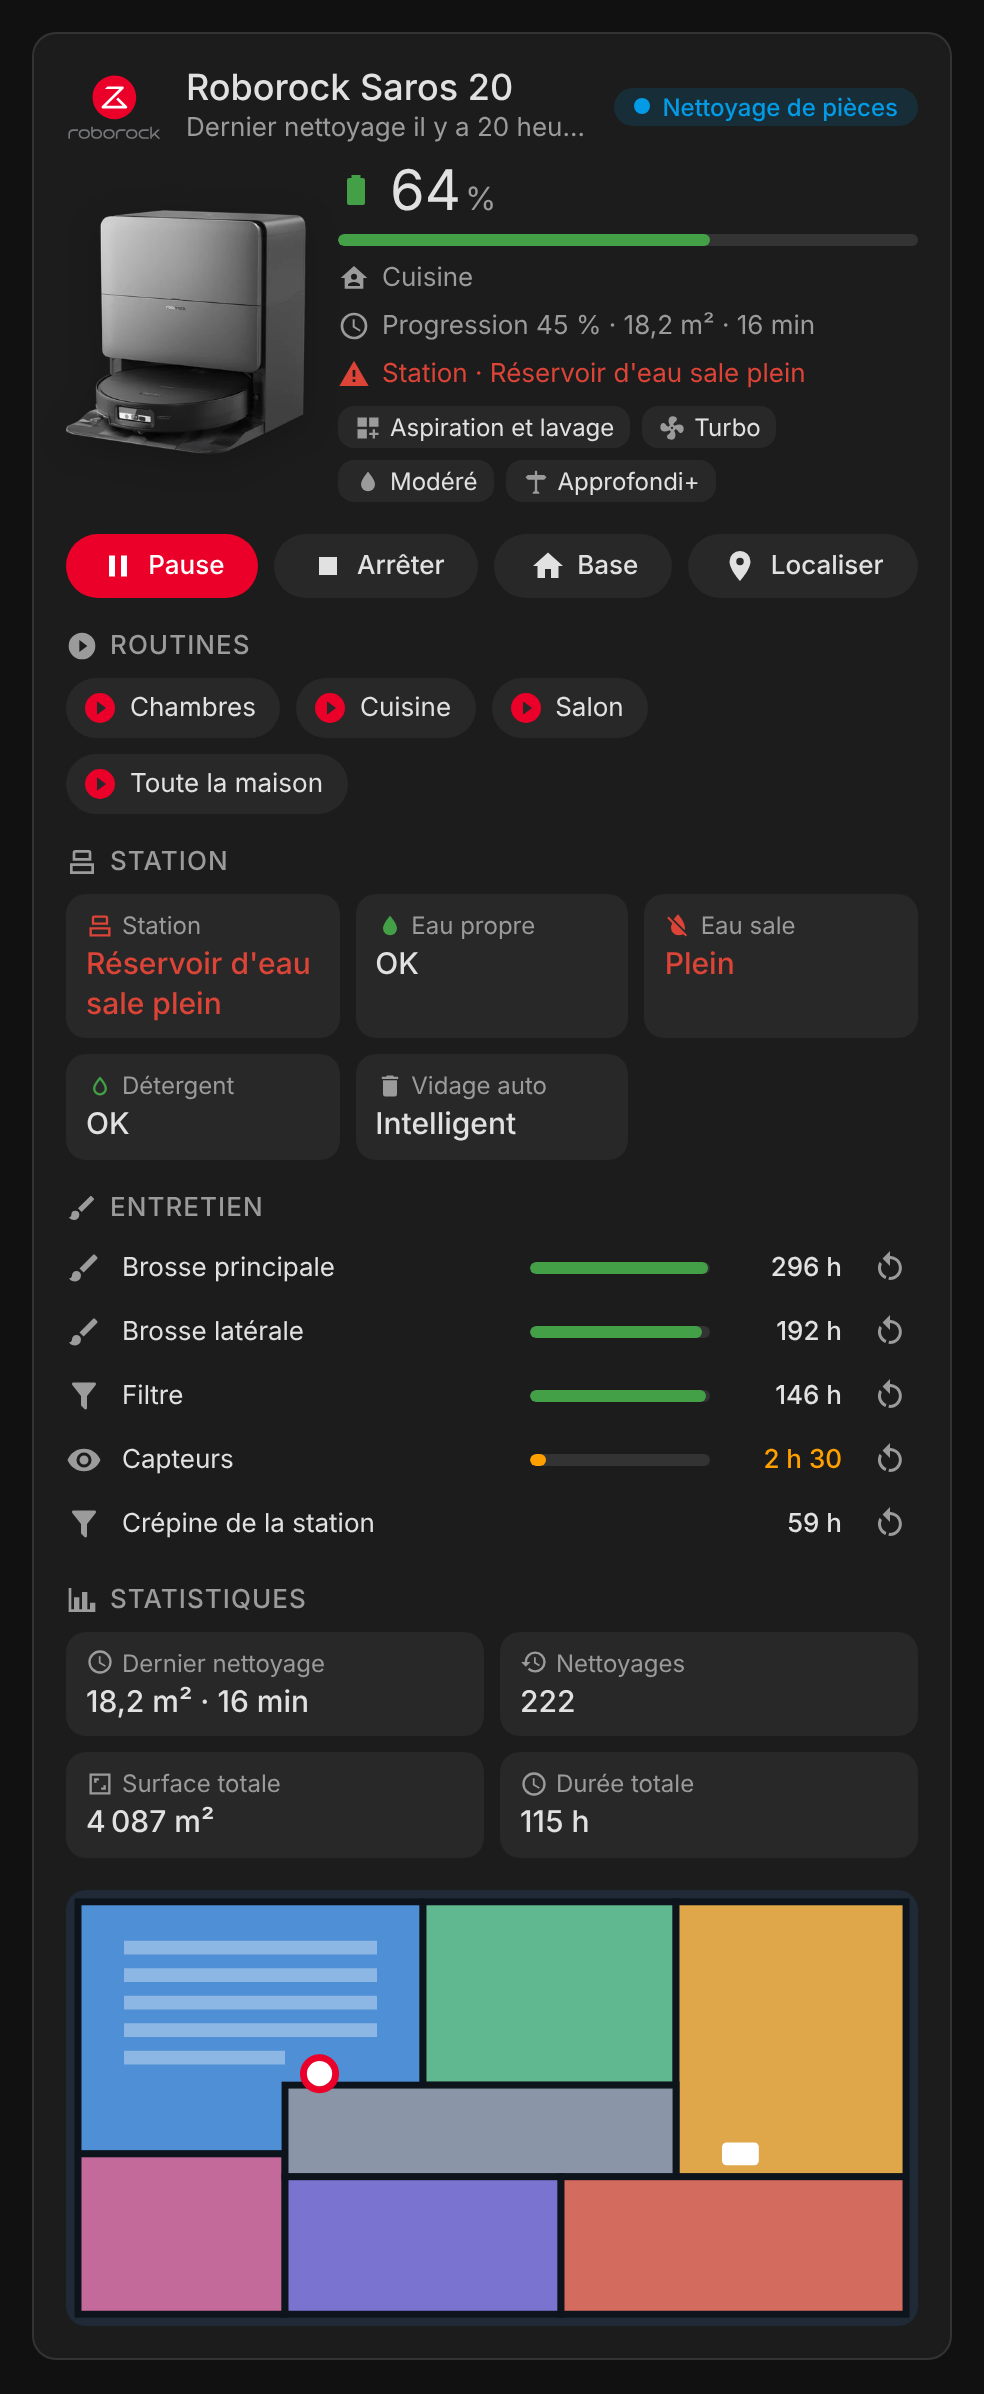
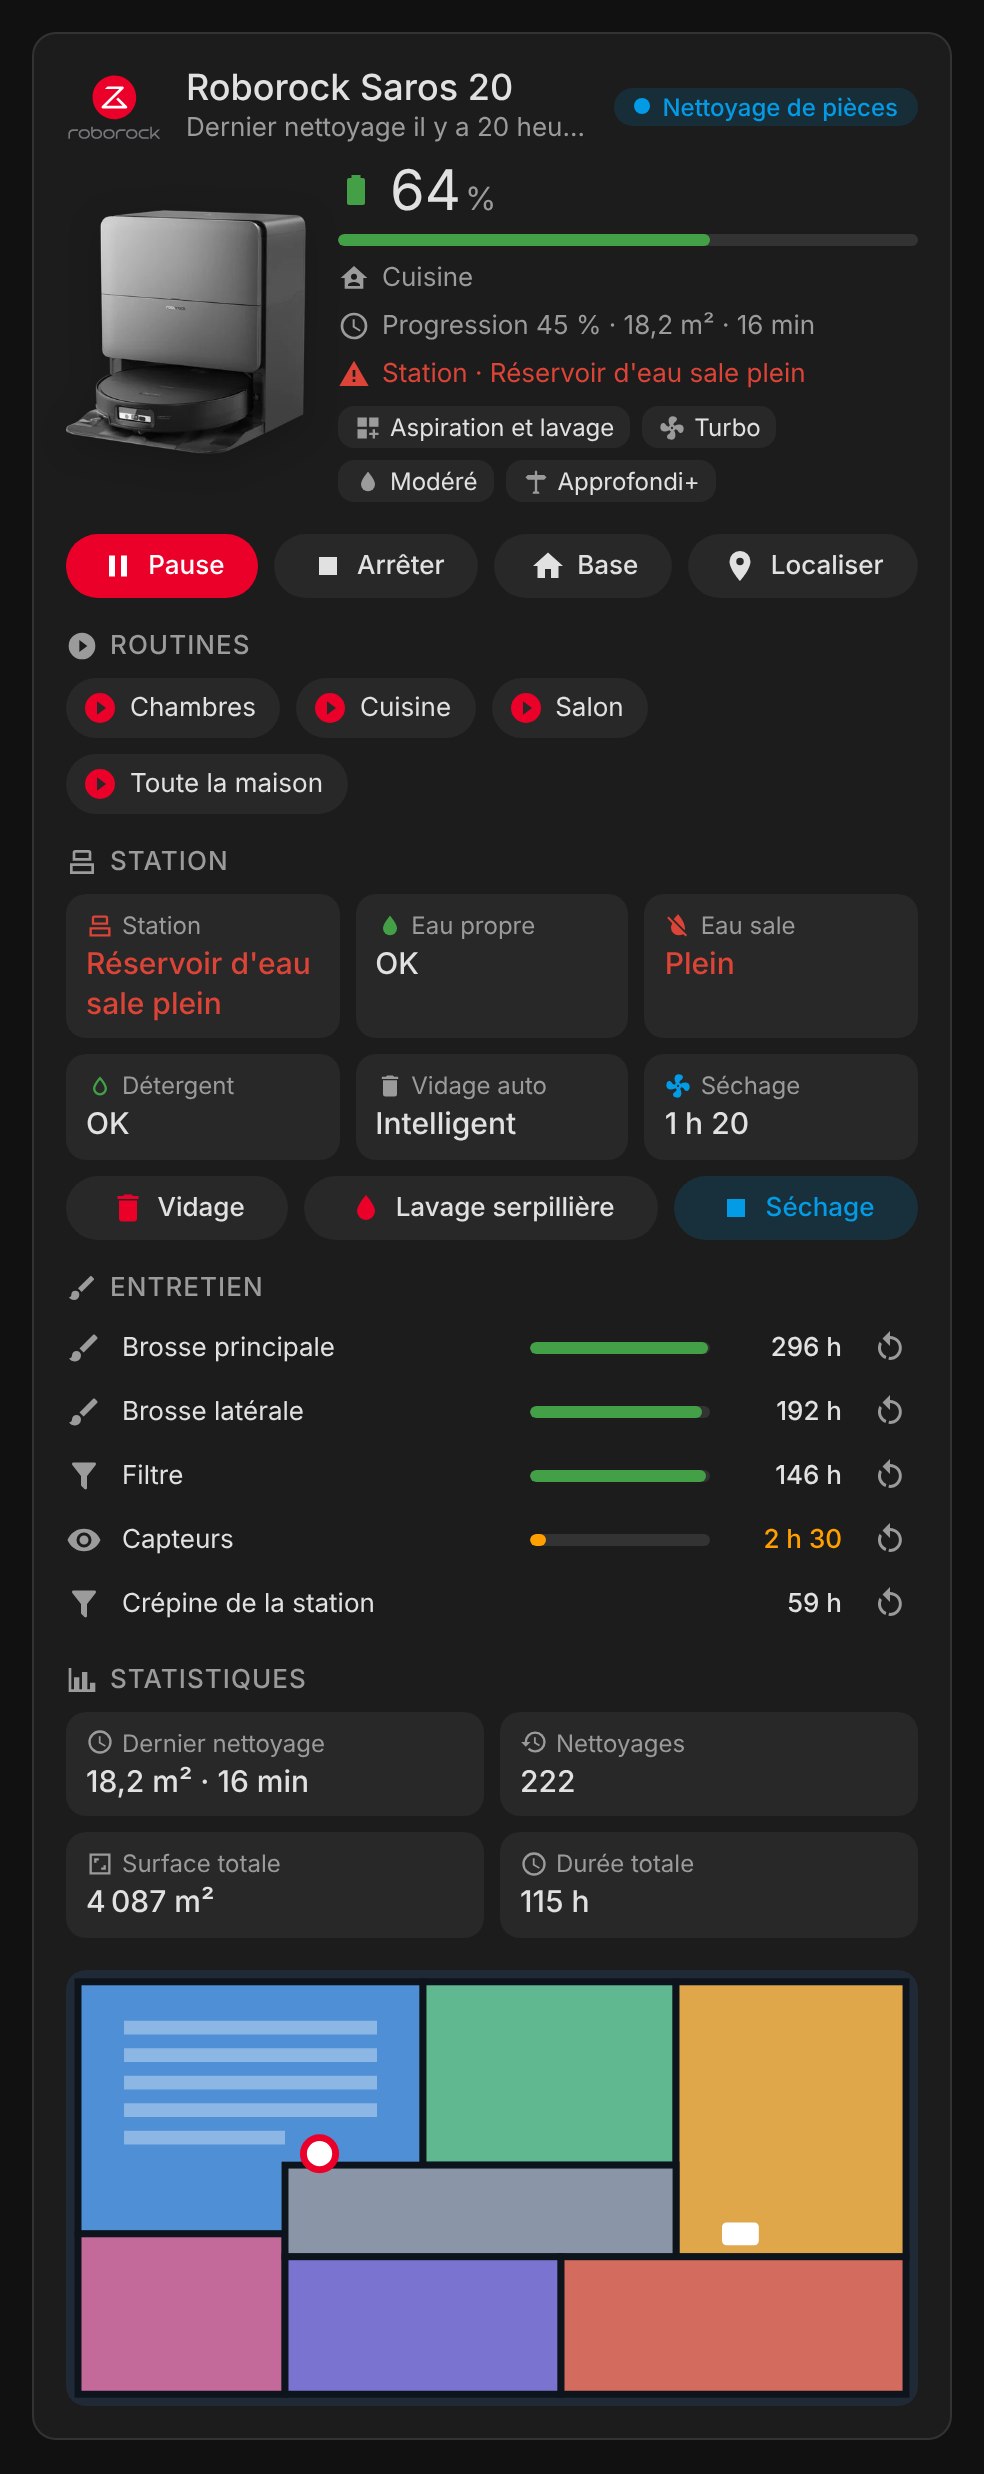
Add dock action buttons (empty bin, wash mop, dry mop)
Claude-Session: https://claude.ai/code/session_01BR93mfbPRnuFtK94DdtmVn

diff --git a/dist/roborock-card.js b/dist/roborock-card.js
@@ -7,7 +7,7 @@
  * device), so they work whatever the Home Assistant language or entity ids.
  */
 
-const VERSION = "1.1.0";
+const VERSION = "1.2.0";
[1 lines of base64/hex data omitted]
 const IMAGES = {
[1 lines of base64/hex data omitted]
@@ -65,6 +65,11 @@ const STRINGS = {
     progress: "Progress",
     routines: "Routines",
     run_routine: "Run routine {name}?",
+    empty_bin: "Empty bin",
+    wash_mop: "Wash mop",
+    dry_mop: "Dry mop",
+    start_action: "Start: {name}",
+    stop_action: "Stop: {name}",
     choose_rooms: "Rooms to clean",
     clean_rooms: "Clean ({n})",
     whole_home: "Whole home",
@@ -201,6 +206,11 @@ const STRINGS = {
     progress: "Progression",
     routines: "Routines",
     run_routine: "Lancer la routine {name} ?",
+    empty_bin: "Vidage",
+    wash_mop: "Lavage serpillière",
+    dry_mop: "Séchage",
+    start_action: "Lancer : {name}",
+    stop_action: "Arrêter : {name}",
     choose_rooms: "Pièces à nettoyer",
     clean_rooms: "Nettoyer ({n})",
     whole_home: "Toute la maison",
@@ -598,6 +608,10 @@ class RoborockBase extends HTMLElement {
     const { action, entity, label } = el.dataset;
     if (this._roomAction(action, entity, el.dataset.room)) return;
     if (action === "zoom_map") return this._zoomMap(entity);
+    if (action === "dock_toggle") {
+      const on = this._s(entity)?.state === "on";
+      return this._hass.callService("switch", on ? "turn_off" : "turn_on", { entity_id: entity });
+    }
     if (action === "reset") {
       if (window.confirm(this._t("confirm_reset", { name: label }))) this._hass.callService("button", "press", { entity_id: entity });
     } else if (action === "routine") {
@@ -876,6 +890,11 @@ const FULL_STYLE = `
   .map img { width: 100%; border-radius: 10px; display: block; background: var(--secondary-background-color, rgba(127,127,127,.08)); }
   .map .crop { overflow: hidden; border-radius: 10px; }
   .map { cursor: zoom-in; }
+  .dock-actions { display: flex; flex-wrap: wrap; gap: 8px; margin-top: 8px; }
+  .dock-actions .btn { flex: 1 1 auto; }
+  .dock-actions .btn .icon { color: var(--rr-red); }
+  .dock-actions .btn.running { background: color-mix(in srgb, var(--rr-active) 16%, transparent); color: var(--rr-active); }
+  .dock-actions .btn.running .icon { color: var(--rr-active); }
   .map .crop img { max-width: none; border-radius: 0; background: none; }
 `;
 
@@ -1018,11 +1037,32 @@ class RoborockCard extends RoborockBase {
     const dry = this._s(d.mop_drying_remaining_time);
     const dryH = hours(dry);
     if (dryH > 0) tiles.push(this._tile(dry.entity_id, ICONS.fan, this._t("drying"), fmtHours(dryH), "active"));
-    if (!tiles.length) return "";
+    const actions = this._dockActions(dev);
+    if (!tiles.length && !actions) return "";
     return `<div>
       <div class="section-title">${svgIcon(ICONS.dock)}${esc(this._t("station"))}</div>
-      <div class="tiles">${tiles.join("")}</div>
+      ${tiles.length ? `<div class="tiles">${tiles.join("")}</div>` : ""}
+      ${actions}
     </div>`;
+  }
+
+  // Dock action switches of the integration: on while the action runs, the dock stops it on its own.
+  _dockActions(dev) {
+    if (this._config.show_controls === false) return "";
+    const btns = [
+      ["dust_emptying", ICONS.bin, "empty_bin"],
+      ["mop_washing", ICONS.water, "wash_mop"],
+      ["mop_drying", ICONS.fan, "dry_mop"],
+    ]
+      .map(([key, icon, label]) => {
+        const s = this._s(this._dev?.dock[key] || dev.dock[key]);
+        if (!s || s.state === "unavailable") return "";
+        const on = s.state === "on";
+        return `<button class="btn ${on ? "running" : ""}" title="${esc(this._t(on ? "stop_action" : "start_action", { name: this._t(label) }))}"
+          data-action="dock_toggle" data-entity="${s.entity_id}">${svgIcon(on ? ICONS.stop : icon)}<span>${esc(this._t(label))}</span></button>`;
+      })
+      .filter(Boolean);
+    return btns.length ? `<div class="dock-actions">${btns.join("")}</div>` : "";
   }
 
   _consumables(dev) {

diff --git a/src/roborock-card.js b/src/roborock-card.js
@@ -65,6 +65,11 @@ const STRINGS = {
     progress: "Progress",
     routines: "Routines",
     run_routine: "Run routine {name}?",
+    empty_bin: "Empty bin",
+    wash_mop: "Wash mop",
+    dry_mop: "Dry mop",
+    start_action: "Start: {name}",
+    stop_action: "Stop: {name}",
     choose_rooms: "Rooms to clean",
     clean_rooms: "Clean ({n})",
     whole_home: "Whole home",
@@ -201,6 +206,11 @@ const STRINGS = {
     progress: "Progression",
     routines: "Routines",
     run_routine: "Lancer la routine {name} ?",
+    empty_bin: "Vidage",
+    wash_mop: "Lavage serpillière",
+    dry_mop: "Séchage",
+    start_action: "Lancer : {name}",
+    stop_action: "Arrêter : {name}",
     choose_rooms: "Pièces à nettoyer",
     clean_rooms: "Nettoyer ({n})",
     whole_home: "Toute la maison",
@@ -598,6 +608,10 @@ class RoborockBase extends HTMLElement {
     const { action, entity, label } = el.dataset;
     if (this._roomAction(action, entity, el.dataset.room)) return;
     if (action === "zoom_map") return this._zoomMap(entity);
+    if (action === "dock_toggle") {
+      const on = this._s(entity)?.state === "on";
+      return this._hass.callService("switch", on ? "turn_off" : "turn_on", { entity_id: entity });
+    }
     if (action === "reset") {
       if (window.confirm(this._t("confirm_reset", { name: label }))) this._hass.callService("button", "press", { entity_id: entity });
     } else if (action === "routine") {
@@ -876,6 +890,11 @@ const FULL_STYLE = `
   .map img { width: 100%; border-radius: 10px; display: block; background: var(--secondary-background-color, rgba(127,127,127,.08)); }
   .map .crop { overflow: hidden; border-radius: 10px; }
   .map { cursor: zoom-in; }
+  .dock-actions { display: flex; flex-wrap: wrap; gap: 8px; margin-top: 8px; }
+  .dock-actions .btn { flex: 1 1 auto; }
+  .dock-actions .btn .icon { color: var(--rr-red); }
+  .dock-actions .btn.running { background: color-mix(in srgb, var(--rr-active) 16%, transparent); color: var(--rr-active); }
+  .dock-actions .btn.running .icon { color: var(--rr-active); }
   .map .crop img { max-width: none; border-radius: 0; background: none; }
 `;
 
@@ -1018,11 +1037,32 @@ class RoborockCard extends RoborockBase {
     const dry = this._s(d.mop_drying_remaining_time);
     const dryH = hours(dry);
     if (dryH > 0) tiles.push(this._tile(dry.entity_id, ICONS.fan, this._t("drying"), fmtHours(dryH), "active"));
-    if (!tiles.length) return "";
+    const actions = this._dockActions(dev);
+    if (!tiles.length && !actions) return "";
     return `<div>
       <div class="section-title">${svgIcon(ICONS.dock)}${esc(this._t("station"))}</div>
-      <div class="tiles">${tiles.join("")}</div>
+      ${tiles.length ? `<div class="tiles">${tiles.join("")}</div>` : ""}
+      ${actions}
     </div>`;
+  }
+
+  // Dock action switches of the integration: on while the action runs, the dock stops it on its own.
+  _dockActions(dev) {
+    if (this._config.show_controls === false) return "";
+    const btns = [
+      ["dust_emptying", ICONS.bin, "empty_bin"],
+      ["mop_washing", ICONS.water, "wash_mop"],
+      ["mop_drying", ICONS.fan, "dry_mop"],
+    ]
+      .map(([key, icon, label]) => {
+        const s = this._s(this._dev?.dock[key] || dev.dock[key]);
+        if (!s || s.state === "unavailable") return "";
+        const on = s.state === "on";
+        return `<button class="btn ${on ? "running" : ""}" title="${esc(this._t(on ? "stop_action" : "start_action", { name: this._t(label) }))}"
+          data-action="dock_toggle" data-entity="${s.entity_id}">${svgIcon(on ? ICONS.stop : icon)}<span>${esc(this._t(label))}</span></button>`;
+      })
+      .filter(Boolean);
+    return btns.length ? `<div class="dock-actions">${btns.join("")}</div>` : "";
   }
 
   _consumables(dev) {

diff --git a/README.md b/README.md
@@ -27,7 +27,7 @@ The cards are built on top of the [Roborock integration](https://www.home-assist
 - Start / pause, stop, return to dock and locate buttons
 - Room selector: the Start button lets you pick the rooms to clean (or the whole home)
 - Routines from the Roborock app as one-tap buttons (with confirmation)
-- Dock: clean and dirty water tanks, detergent, auto-empty mode, mop drying
+- Dock: clean and dirty water tanks, detergent, auto-empty mode, mop drying, and Empty bin / Wash mop / Dry mop buttons
 - Maintenance: main brush, side brush, filter, sensors, dock strainer… with remaining time and a reset button (with confirmation) when the integration provides one
 - Statistics: last clean, number of cleanings, total area and time
 - Map of the current floor while the robot is cleaning (or always, or never), with optional cropping, enlarged full screen on click
@@ -126,7 +126,7 @@ language: fr
 | `title` | both | Device name | Card title |
 | `image` | both | `auto` | Device picture: `auto` (per model), `saros_20`, `f25_ultra`, `none`, or the URL of your own picture (e.g. `/local/my-robot.png`) |
 | `show_logo` | both | `true` | Show the Roborock logo (opens [roborock.com](https://www.roborock.com) in a new tab) |
-| `show_controls` | both | `true` | Start / pause, stop, dock and locate buttons (robot vacuums), and maintenance reset buttons |
+| `show_controls` | both | `true` | Start / pause, stop, dock and locate buttons (robot vacuums), dock actions (empty bin, wash and dry mop) and maintenance reset buttons |
 | `room_selection` | both | `true` | The Start button opens the room selector; `false` starts a full cleaning right away |
 | `show_modes` | full | `true` | Cleaning mode, suction power, mop intensity and route |
 | `show_routines` | full | `true` | Routines buttons |

diff --git a/CHANGELOG.md b/CHANGELOG.md
@@ -1,5 +1,11 @@
 # Changelog
 
+## 1.2.0
+
+### ✨ Features
+
+- **Dock actions**: Empty bin, Wash mop and Dry mop buttons in the dock section, using the integration's dock switches. A running action is highlighted and its button stops it. Hidden with `show_controls: false`.
+
 ## 1.1.0
 
 ### ✨ Features
